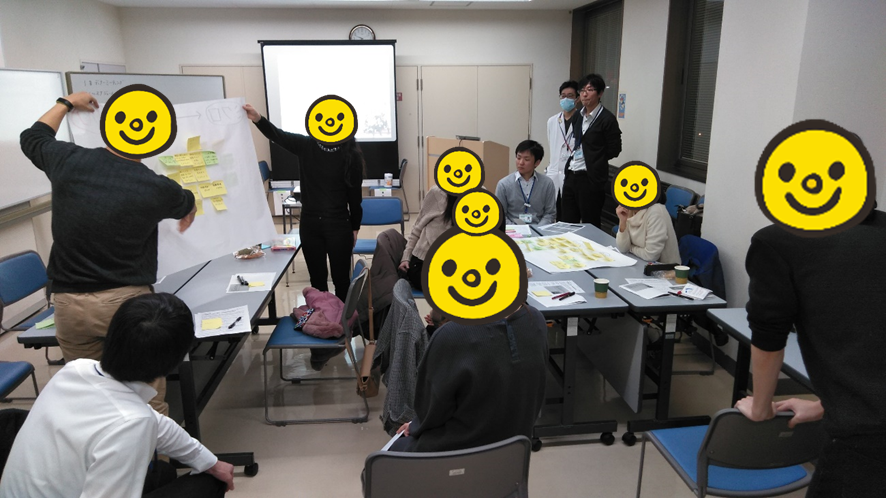
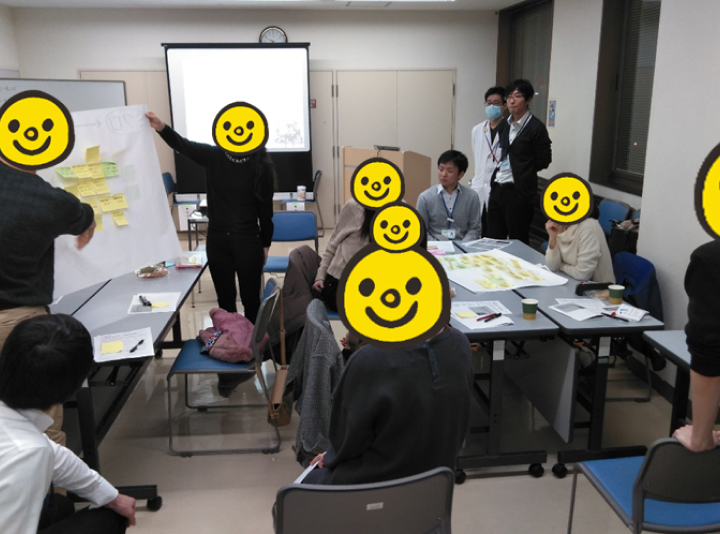
[Fix] refs #1
「医師・医学生」「企画」内の画像を新たにトリミングされたものに変更

diff --git a/wp-content/base/doctor.html b/wp-content/base/doctor.html
@@ -199,7 +199,7 @@
             <ul class="p-hospital-list u-mt--20">
               <li class="p-hospital-list__item">
                 <div class="p-hospital-list__img">
-                  <img src="./images/03_doctor/doctor-plan-1.jpg" alt="" />
+                  <img src="./images/03_doctor/doctor-plan-1.png" alt="" />
                 </div>
                 <p class="p-hospital-list__text">
                   【＃医学生エール飯】医療系学生のみなさんへ無料でテイクアウトできるお弁当を配布しています。コロナ禍で人との関りが少なくなっていく中、手から手へお渡しするお弁当で頑張る学生を支えたい。そんな思いではじめました。
@@ -207,7 +207,7 @@
               </li>
               <li class="p-hospital-list__item">
                 <div class="p-hospital-list__img">
-                  <img src="./images/03_doctor/doctor-plan-2.jpg" alt="" />
+                  <img src="./images/03_doctor/doctor-plan-2.png" alt="" />
                 </div>
                 <p class="p-hospital-list__text">
                   【＃医学生エール飯】医系学生サポートセンターの入口にて、お弁当を受け取ることができます。季節によってはプチイベントも開催！
@@ -215,7 +215,7 @@
               </li>
               <li class="p-hospital-list__item">
                 <div class="p-hospital-list__img">
-                  <img src="./images/03_doctor/doctor-plan-3.jpg" alt="" />
+                  <img src="./images/03_doctor/doctor-plan-3.png" alt="" />
                 </div>
                 <p class="p-hospital-list__text">
                   【＃医学生エール飯】毎回職員の手作り弁当をご用意。申し込み学生からのリクエストを随時受け付け、献立の参考にしています。
@@ -247,7 +247,7 @@
               </li>
               <li class="p-hospital-list__item">
                 <div class="p-hospital-list__img">
-                  <img src="./images/03_doctor/doctor-plan-7.jpg" alt="" />
+                  <img src="./images/03_doctor/doctor-plan-7.png" alt="" />
                 </div>
                 <p class="p-hospital-list__text">
                   【臨床推論学習会】ジェネラリスト（総合診療医）とスペシャリスト（循環器専門医）それぞれから症例を提示し、研修医、医学生を交えてカンファレンスを行います
@@ -263,7 +263,7 @@
               </li>
               <li class="p-hospital-list__item">
                 <div class="p-hospital-list__img">
-                  <img src="./images/03_doctor/doctor-plan-9.jpg" alt="" />
+                  <img src="./images/03_doctor/doctor-plan-9.png" alt="" />
                 </div>
                 <p class="p-hospital-list__text">
                   【全国の民医連学習企画】全国の医学生や医療系学生と学習、交流する企画があります。
@@ -271,7 +271,7 @@
               </li>
               <li class="p-hospital-list__item">
                 <div class="p-hospital-list__img">
-                  <img src="./images/03_doctor/doctor-plan-10.jpg" alt="" />
+                  <img src="./images/03_doctor/doctor-plan-10.png" alt="" />
                 </div>
                 <p class="p-hospital-list__text">
                   【フィールドワーク】現地に行き、生の声を聞くことができます。長島愛生園にてハンセン病について学習。
@@ -279,7 +279,7 @@
               </li>
               <li class="p-hospital-list__item">
                 <div class="p-hospital-list__img">
-                  <img src="./images/03_doctor/doctor-plan-11.jpg" alt="" />
+                  <img src="./images/03_doctor/doctor-plan-11.png" alt="" />
                 </div>
                 <p class="p-hospital-list__text">
                   【フィールドワーク】水島工業地帯にて、公害問題について学習。
@@ -303,7 +303,7 @@
               </li>
               <li class="p-hospital-list__item">
                 <div class="p-hospital-list__img">
-                  <img src="./images/03_doctor/doctor-plan-14.jpg" alt="" />
+                  <img src="./images/03_doctor/doctor-plan-14.png" alt="" />
                 </div>
                 <p class="p-hospital-list__text">
                   【松江生協病院web研修説明会】松江生協病院の指導医から研修プログラムや特徴を聞くことができます。研修医から実際に研修している様子についてご紹介します。
